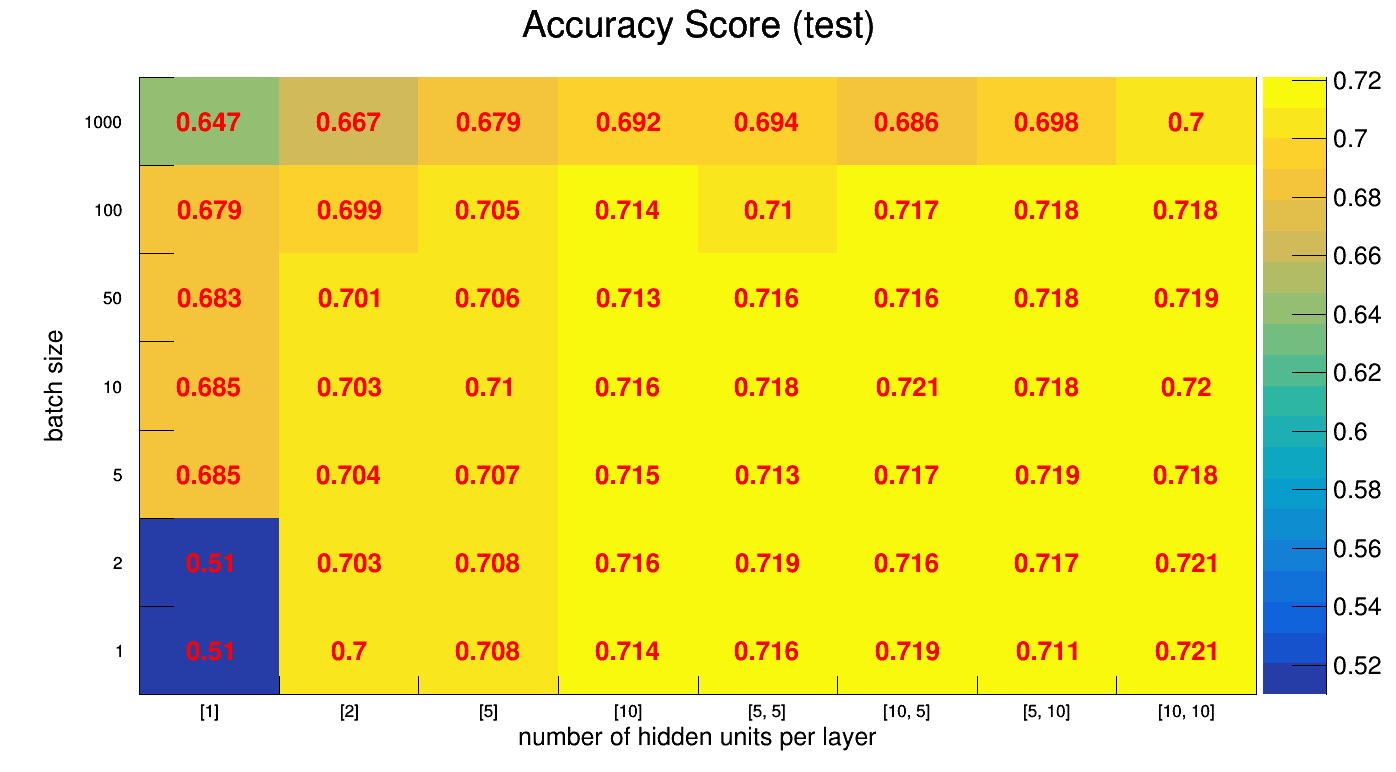
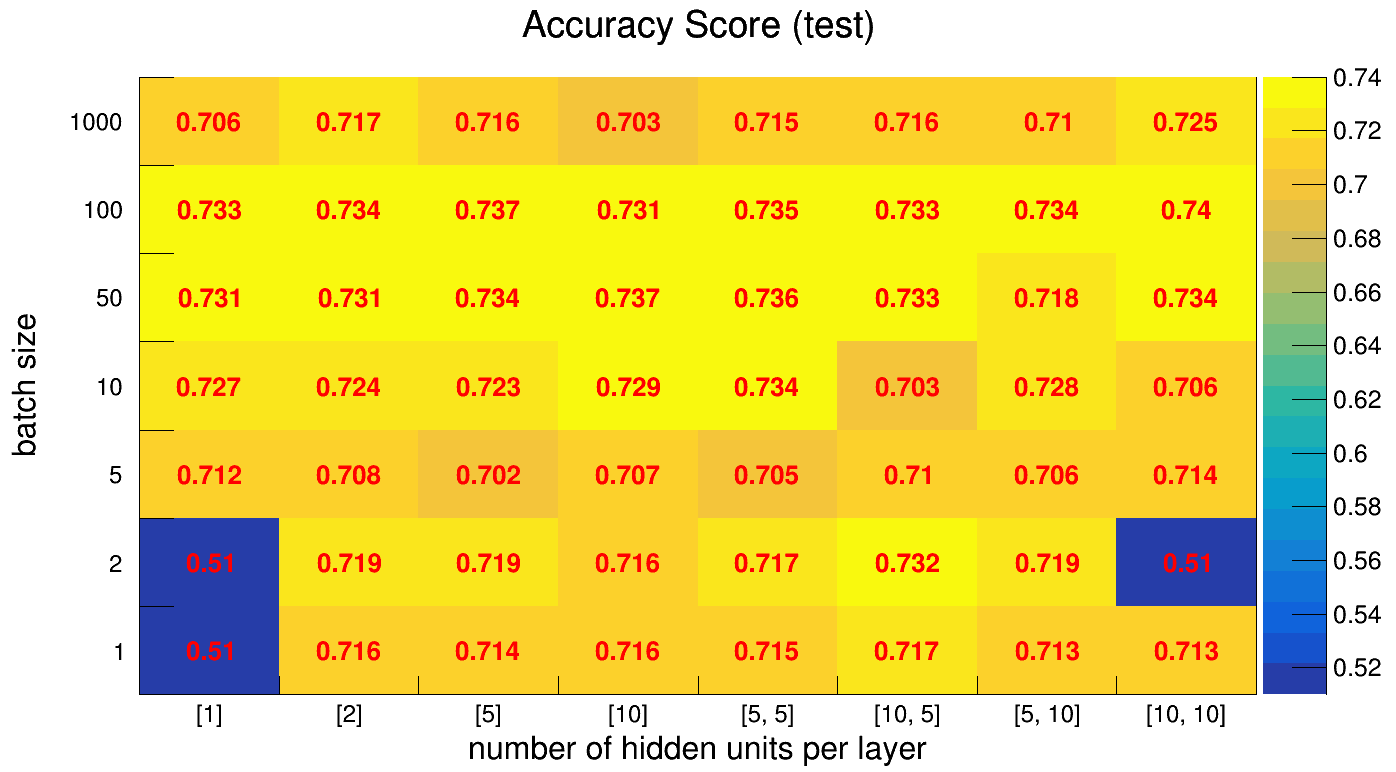
Set Adam optimizer in DNNClassifier

diff --git a/modules/plot_hist2d.py b/modules/plot_hist2d.py
@@ -9,32 +9,23 @@ from ROOT import gROOT, TCanvas, TH2F
 
 gROOT.SetBatch(True)
 
-timing = [21.526516, 38.697022, 21.801782, 18.44195, 39.922742, 32.731565, 42.106807,
-          50.200812, 23.214379, 10.198113, 9.88649, 9.957186, 23.863473, 28.228622,
-          28.804091, 16.237075, 4.056886, 8.267317, 4.250014, 4.070573, 5.335695,
-          9.338416, 4.359317, 4.29553, 2.295932, 2.353202, 2.299685, 2.371533,
-          2.456108, 2.527569, 3.646254, 3.140338, 0.967866, 0.894383, 0.962015,
-          0.899259, 1.096401, 0.988191, 1.046669, 1.037391, 0.714606, 0.768995,
-          0.708612, 0.769892, 0.79048, 0.851255, 0.916281, 0.786869, 0.617785,
-          0.549758, 0.608248, 0.547591, 0.683419, 0.617111, 0.617212, 0.683746]
 
-train_accuracy = [0.50338739, 0.70441216, 0.71192712, 0.71796185, 0.72075152, 0.72507828, 0.71562767,
-                  0.72729862, 0.50338739, 0.70686024, 0.71004838, 0.71841729, 0.7229718, 0.72240251,
-                  0.7202391, 0.72815257, 0.68869913, 0.70737261, 0.71101624, 0.71932822, 0.72086537,
-                  0.72445202, 0.7230857, 0.72536296, 0.68932539, 0.70691717, 0.71278107, 0.71870196,
-                  0.72576147, 0.7240535, 0.72553372, 0.72667235, 0.68488473, 0.70577854, 0.70868206,
-                  0.71579844, 0.72359806, 0.72422433, 0.72467977, 0.72376883, 0.68209505, 0.70270425,
-                  0.7077142, 0.71414745, 0.71813267, 0.7254768, 0.72177625, 0.7191574, 0.65231997,
-                  0.67065185, 0.67930543, 0.69587249, 0.69735271, 0.68926841, 0.69735271, 0.70515227]
+# Phi02_adam
+timing = [26.215679, 28.540846, 26.419376, 22.628265, 29.898935, 26.807327, 30.356528, 28.386068, 12.19813, 15.141432, 10.148861, 13.421314, 16.22232, 16.82215, 16.464606, 16.37512, 7.616649, 7.479513, 6.409795, 7.789416, 8.913824, 8.547696, 8.770934, 8.640597, 5.118218, 5.381024, 5.701675, 5.294609, 5.531809, 5.86191, 6.24442, 5.66175, 3.255577, 3.722482, 3.492225, 3.569185, 4.301058, 3.935569, 4.226427, 4.189655, 3.359671, 2.955854, 2.929028, 2.988012, 3.728422, 3.54982, 3.774447, 4.280285, 2.803418, 2.875671, 2.791564, 2.940498, 3.481508, 3.713001, 3.489983, 3.326119]
 
-test_accuracy = [0.50962943, 0.70049143, 0.70753086, 0.71377343, 0.71642983, 0.71948469, 0.71058571,
-                 0.72121131, 0.50962943, 0.70328063, 0.70846063, 0.71603137, 0.71868771, 0.71629697,
-                 0.71709388, 0.72134411, 0.6854828, 0.7042104, 0.70739806, 0.7151016, 0.71297652,
-                 0.71735954, 0.71895337, 0.71842211, 0.6854828, 0.70301503, 0.7095232, 0.71603137,
-                 0.717758, 0.72068006, 0.7178908, 0.72001594, 0.68309206, 0.70062423, 0.70580423,
-                 0.71337497, 0.71603137, 0.71550006, 0.71842211, 0.71895337, 0.67884183, 0.6987648,
-                 0.70460886, 0.71443748, 0.71018726, 0.71656263, 0.71828926, 0.7176252, 0.64749634,
-                 0.6667552, 0.67884183, 0.69185817, 0.69424891, 0.68627971, 0.69770223, 0.70009297]
+train_accuracy = [0.50338739, 0.71870196, 0.71790493, 0.71750641, 0.71665245, 0.72080845, 0.71653855, 0.71767718, 0.50338739, 0.72411042, 0.72416741, 0.72325647, 0.72183317, 0.73589522, 0.72325647, 0.50338739, 0.71585542, 0.71340734, 0.70959294, 0.71363509, 0.70942217, 0.71619695, 0.7091375, 0.71625394, 0.73042983, 0.73077142, 0.72707087, 0.73840022, 0.73817253, 0.70896667, 0.72627383, 0.71596926, 0.73185313, 0.73253632, 0.7397666, 0.74602902, 0.73948193, 0.74175918, 0.72587532, 0.74306858, 0.73498434, 0.73697692, 0.74130374, 0.73766011, 0.7380017, 0.74027896, 0.73879874, 0.7445488, 0.70856816, 0.71528608, 0.71756333, 0.70566469, 0.71710789, 0.7205807, 0.71363509, 0.72980356]
+
+test_accuracy = [0.50962943, 0.71603137, 0.71364057, 0.71563292, 0.71457034, 0.71656263, 0.71297652, 0.71271086, 0.50962943, 0.71895337, 0.71855491, 0.71589851, 0.71722674, 0.73210251, 0.71935183, 0.50962943, 0.71151549, 0.70819497, 0.70221812, 0.7069996, 0.70514011, 0.71018726, 0.70633548, 0.71350777, 0.72732103, 0.72439897, 0.7232036, 0.72891486, 0.7338292, 0.70261657, 0.72758669, 0.70593703, 0.73064154, 0.73064154, 0.73436046, 0.73714972, 0.73568869, 0.73289943, 0.7178908, 0.73422766, 0.73343074, 0.73422766, 0.73701686, 0.73104, 0.73489177, 0.73276663, 0.733962, 0.74033737, 0.70567143, 0.71682829, 0.71563292, 0.70274937, 0.71483594, 0.71616417, 0.7097888, 0.72466463]
+
+"""
+# MACMINI_adam
+timing = [19.653414, 19.119879, 19.225279, 19.316461, 20.632058, 20.845365, 20.924385, 21.330284, 11.963459, 11.919985, 11.850586, 12.105316, 12.947198, 13.169154, 13.002206, 12.935541, 7.296905, 7.252537, 7.336213, 7.250607, 8.155636, 8.342255, 8.274422, 8.137192, 5.888792, 5.759837, 5.836069, 5.881778, 6.659572, 6.549491, 6.562548, 6.668397, 4.441269, 4.483467, 4.454115, 4.500572, 5.471434, 5.319134, 5.43853, 5.318957, 4.442768, 4.465011, 4.300926, 4.430185, 5.250048, 5.100899, 5.397764, 5.215705, 4.247366, 4.281971, 4.233349, 4.199135, 4.946871, 4.911522, 4.850724, 4.978875]
+
+train_accuracy = [0.50338739, 0.71944207, 0.73492742, 0.72206092, 0.72143465, 0.69775122, 0.50338739, 0.73219472, 0.50338739, 0.72143465, 0.73253632, 0.72092229, 0.73555368, 0.72314262, 0.70475376, 0.72496444, 0.73526901, 0.71841729, 0.71619695, 0.72490746, 0.72075152, 0.74027896, 0.7321378, 0.73099917, 0.73674923, 0.73276401, 0.74312556, 0.71966982, 0.73566753, 0.73720467, 0.73407346, 0.743581, 0.73726159, 0.74335325, 0.74056363, 0.74010819, 0.73304868, 0.74437803, 0.74147451, 0.74210078, 0.73282093, 0.73851407, 0.74005121, 0.73817253, 0.73766011, 0.74289781, 0.74005121, 0.74147451, 0.66108739, 0.69547397, 0.70936519, 0.70634782, 0.69814974, 0.7010532, 0.7229718, 0.7282095]
+
+test_accuracy = [0.50962943, 0.7149688, 0.72771949, 0.71828926, 0.71749234, 0.69398326, 0.50962943, 0.72439897, 0.50962943, 0.7176252, 0.72652411, 0.71536726, 0.72771949, 0.71975029, 0.70673394, 0.71895337, 0.7283836, 0.71178108, 0.71058571, 0.7176252, 0.71204674, 0.73343074, 0.72732103, 0.73170406, 0.73170406, 0.72705537, 0.73409486, 0.71443748, 0.72811794, 0.73223537, 0.72439897, 0.73542303, 0.73104, 0.73635274, 0.73409486, 0.73462611, 0.73276663, 0.73502457, 0.73741531, 0.73768097, 0.72227389, 0.73329794, 0.73582149, 0.73542303, 0.72785228, 0.73449332, 0.7336964, 0.73143846, 0.65918452, 0.6907956, 0.70660114, 0.70314783, 0.68946737, 0.69597554, 0.71868771, 0.72493029]
+"""
+
 
 xl = [[1], [2], [5], [10], [5, 5], [10, 5], [5, 10], [10, 10]]
 
@@ -54,6 +45,10 @@ h0.GetXaxis().SetTitle('number of hidden units per layer')
 h0.GetYaxis().SetTitle('batch size')
 h0.GetXaxis().CenterTitle()
 h0.GetYaxis().CenterTitle()
+h0.GetXaxis().SetLabelSize(.050)
+h0.GetYaxis().SetLabelSize(.050)
+h0.GetXaxis().SetTitleSize(.045)
+h0.GetYaxis().SetTitleSize(.045)
 
 h1 = h0.Clone('h1')
 h1.SetTitle('Accuracy Score (test)')

diff --git a/modules/batch_size_optimize.py b/modules/batch_size_optimize.py
@@ -71,7 +71,8 @@ def main(x_data, y_data):
         feature_columns = [tf.feature_column.numeric_column("x", shape=[625])]
         model = tf.estimator.DNNClassifier(feature_columns=feature_columns,
                                            hidden_units=grid['hidden_units'],
-                                           n_classes=2)
+                                           n_classes=2,
+                                           optimizer='Adam')
         """
             Train model
         """
